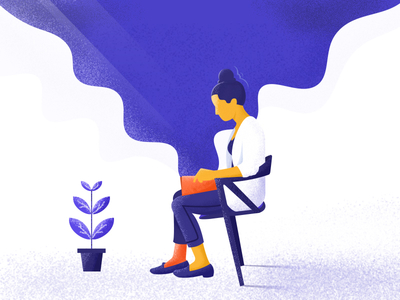
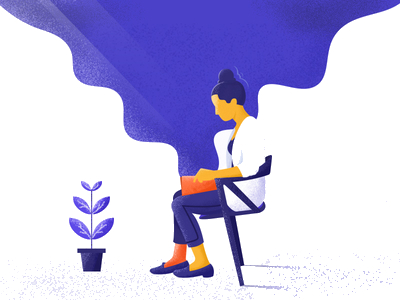
image and text fixed

Changed region(s): [[0.6, 0.84, 1.0, 1.0]]

diff --git a/index.html b/index.html
@@ -82,8 +82,7 @@
           <section class="container text-center ">
             <div class="text-center">
               <h4 class="font-weight-bold">
-                Te provee la calidad de vida que necesitas
-                ahorras tiempo, dinero y esfuerzo.
+                Te provee la calidad de vida que necesitas.
               </h4>
             </div>
             <p class="mt-2">
@@ -141,7 +140,7 @@
             <button class="btn0 pt-1 pb-1 px-5 mt-4" onclick="window.open('https://appto.now.sh', '_blank')">
               Pruébalo
             </button>
-            <img class="mt-5 img-fluid mx-auto d-block" src="public/img/loader.gif" width="300">
+            <img class="mt-4 img-fluid mx-auto d-block" src="public/img/woman.jpg" width="">
           </section>
         </div>
       </div>
